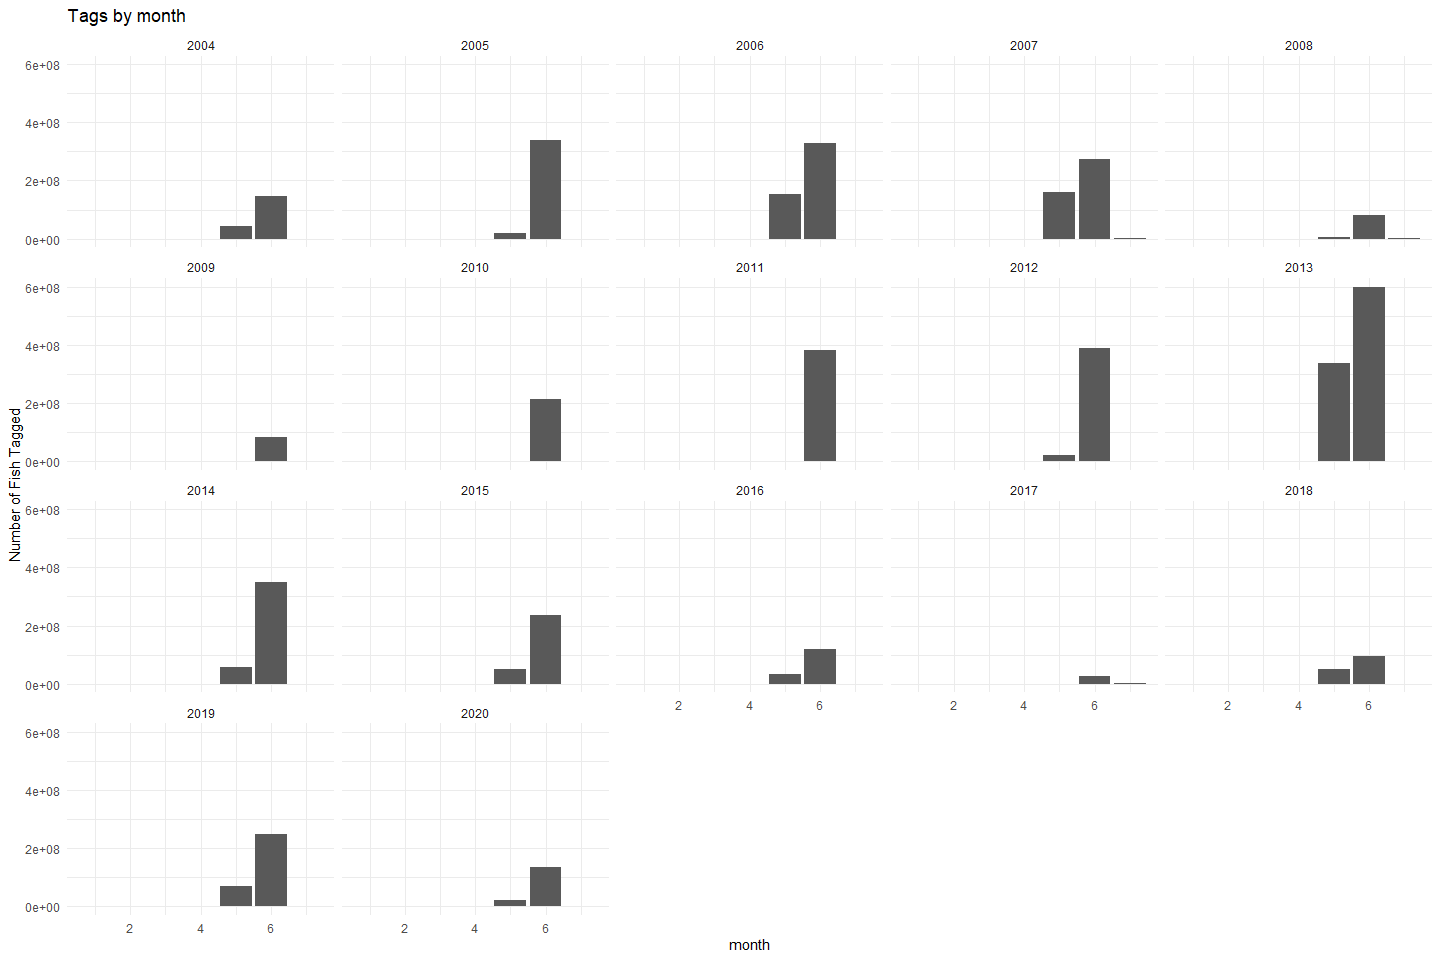
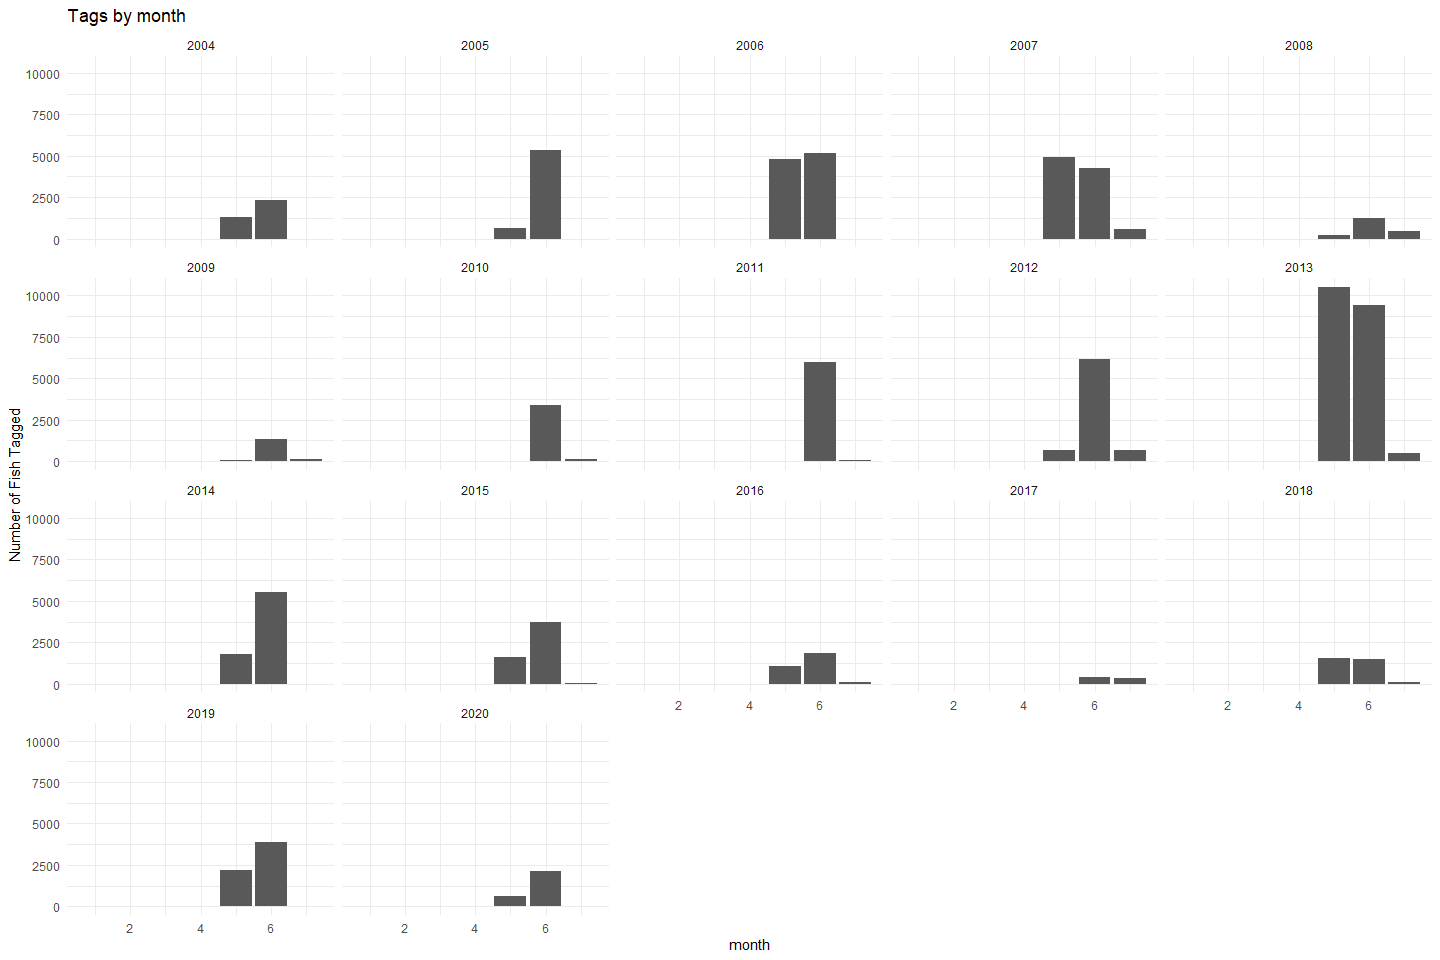
Updates count plots for feather hallprint

diff --git a/scripts/adult-upstream-passage-monitoring/feather-river/feather-hallprint.md b/scripts/adult-upstream-passage-monitoring/feather-river/feather-hallprint.md
@@ -172,8 +172,7 @@ cleaner_hallprint_data %>%
 ``` r
 cleaner_hallprint_data %>% 
   group_by(year = year(date)) %>%
-  mutate(total_tags_per_year = sum(!is.na(tag_number))) %>% 
-  ungroup() %>% 
+  summarise(total_tags_per_year = sum(!is.na(tag_number))) %>% 
   ggplot(aes(x = year, y = total_tags_per_year)) +
   geom_col() + 
   theme_minimal() + 
@@ -188,16 +187,17 @@ tagged are not even over the period of record.
 
 ``` r
 cleaner_hallprint_data %>% 
-  group_by(month = month(date)) %>%
-  mutate(total_tags_per_month = sum(!is.na(tag_number))) %>% 
-  ungroup() %>% 
+  group_by(year = year(date), month = month(date)) %>%
+  summarise(total_tags_per_month = sum(!is.na(tag_number))) %>% 
   ggplot(aes(x = month, y = total_tags_per_month)) +
   geom_col() + 
-  facet_wrap(~year(date)) +  
+  facet_wrap(~year) +  
   theme_minimal() + 
   labs(title = "Tags by month",
        y = "Number of Fish Tagged")  
 ```
+
+    ## `summarise()` has grouped output by 'year'. You can override using the `.groups` argument.
 
 ![](feather-hallprint_files/figure-gfm/unnamed-chunk-10-1.png)<!-- -->
 
@@ -367,7 +367,7 @@ write_rds(feather_hallprint_acoustic_location, "../../../data/feather_hallprint_
 -   One identified issue is that not all `tags_numbers` or
     `second_tag_numbers` are unique.
 -   Each tag is a unique fish, this data may be more helpful as some
-    estimate of fish count, add in a count colum?
+    estimate of fish count, add in a count column?
 
 ### Save cleaned data back to google cloud
 
